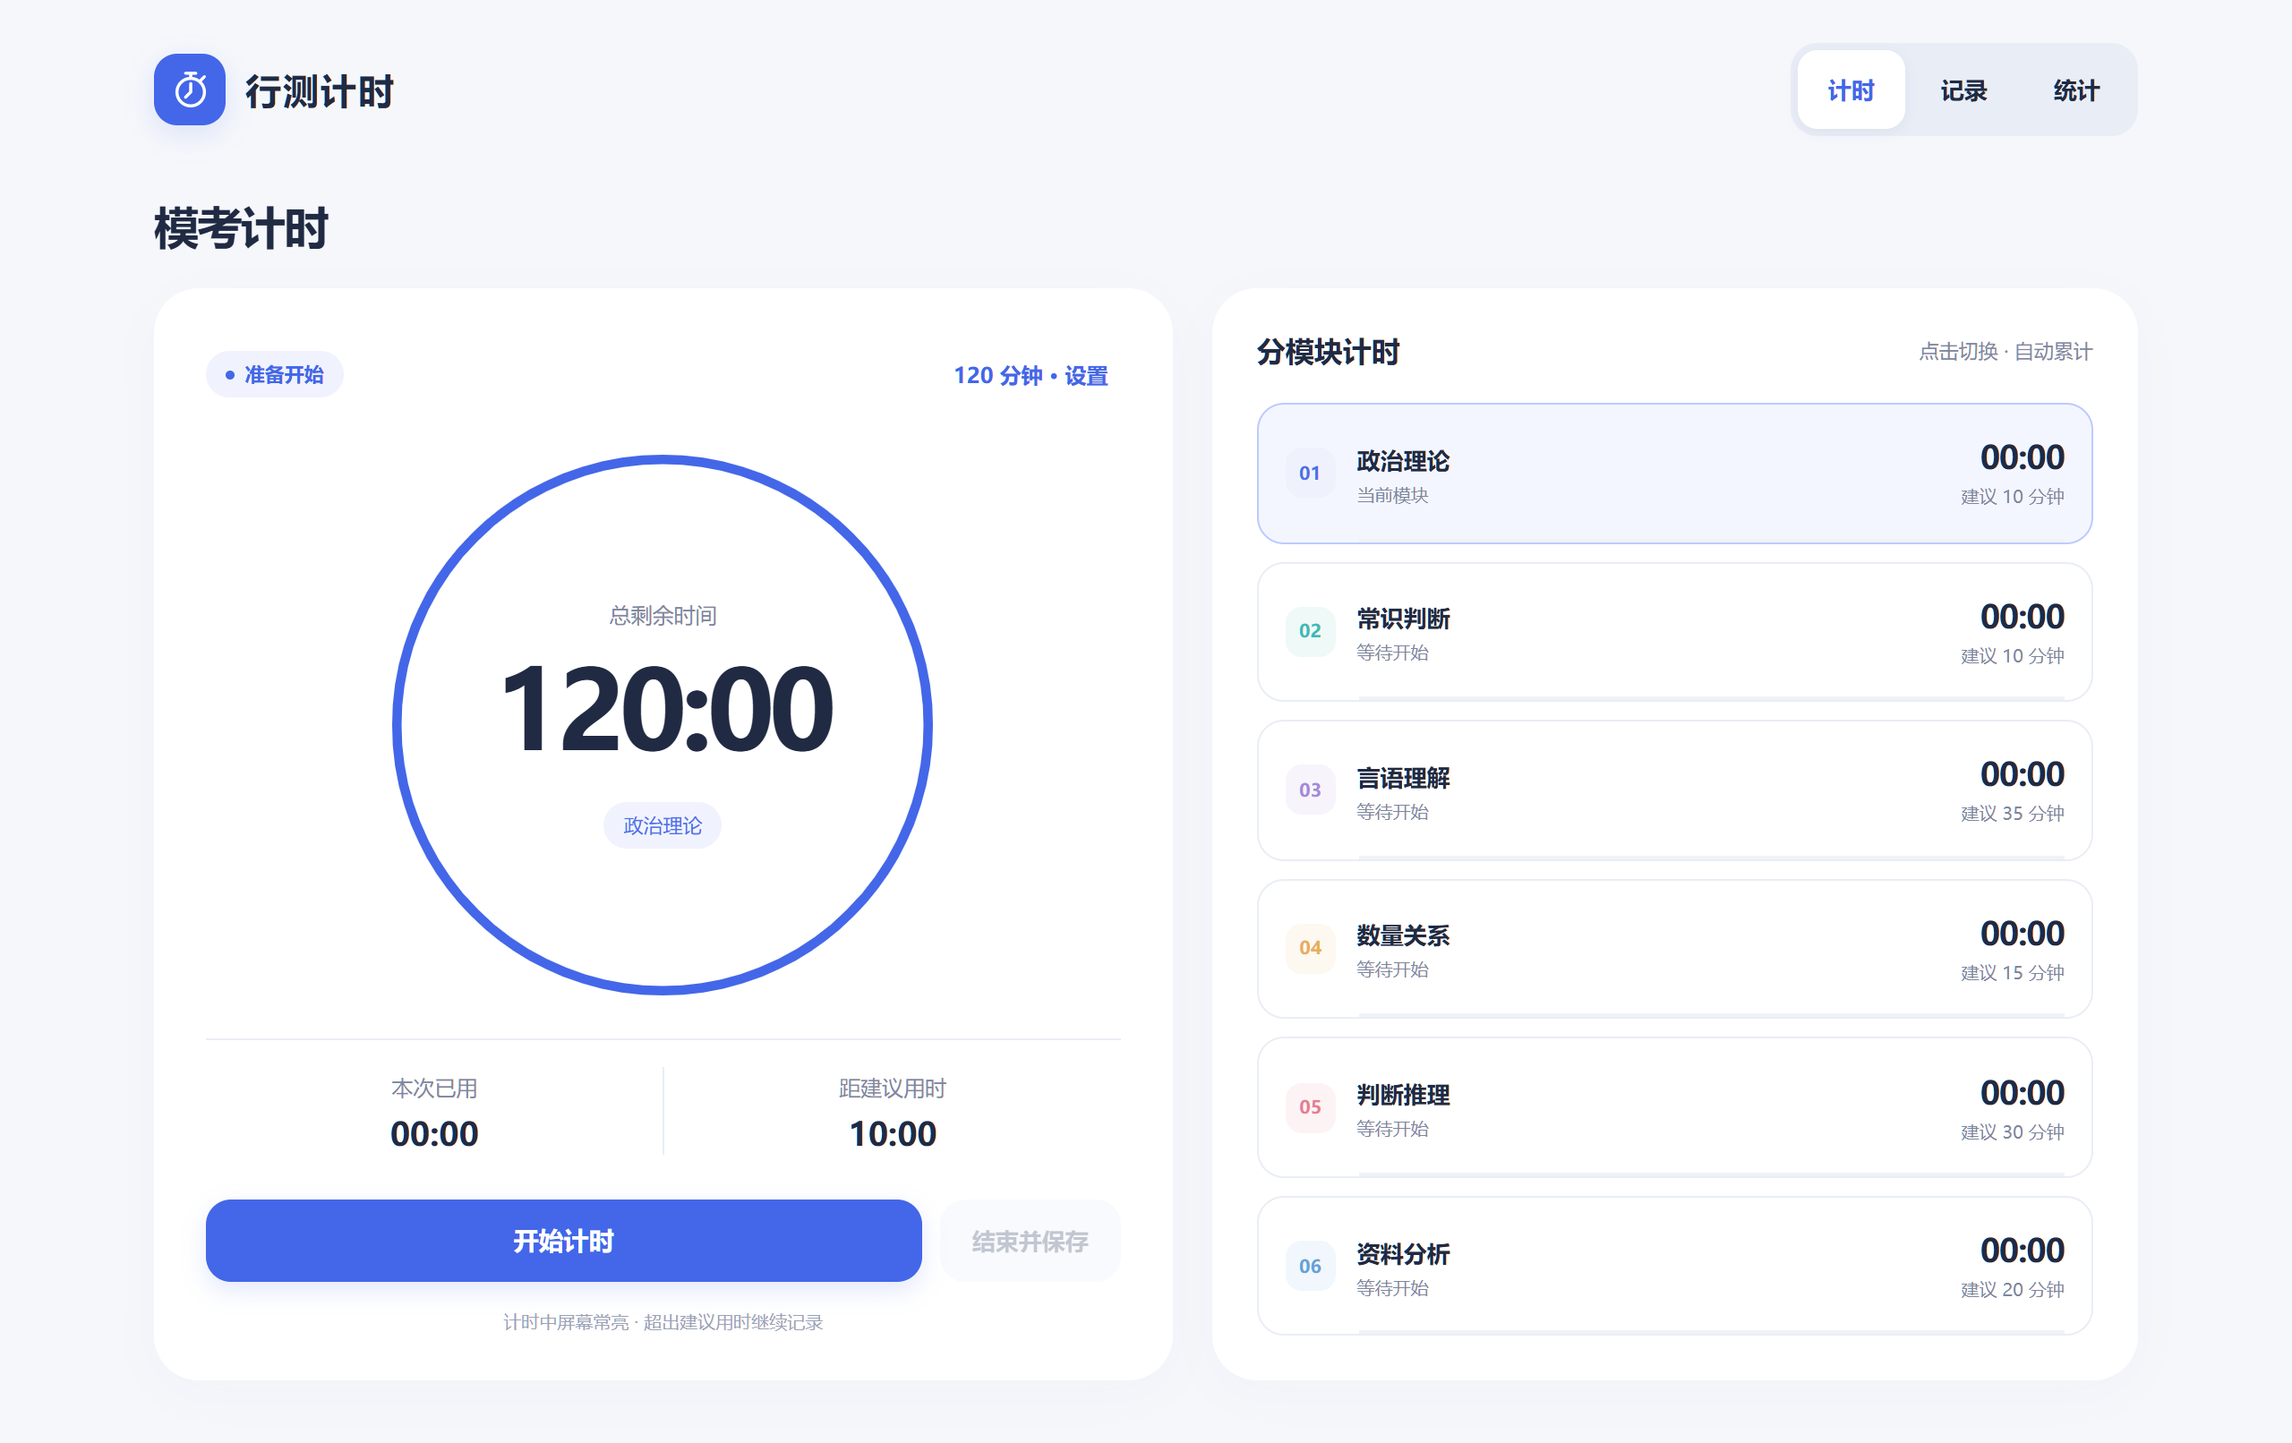
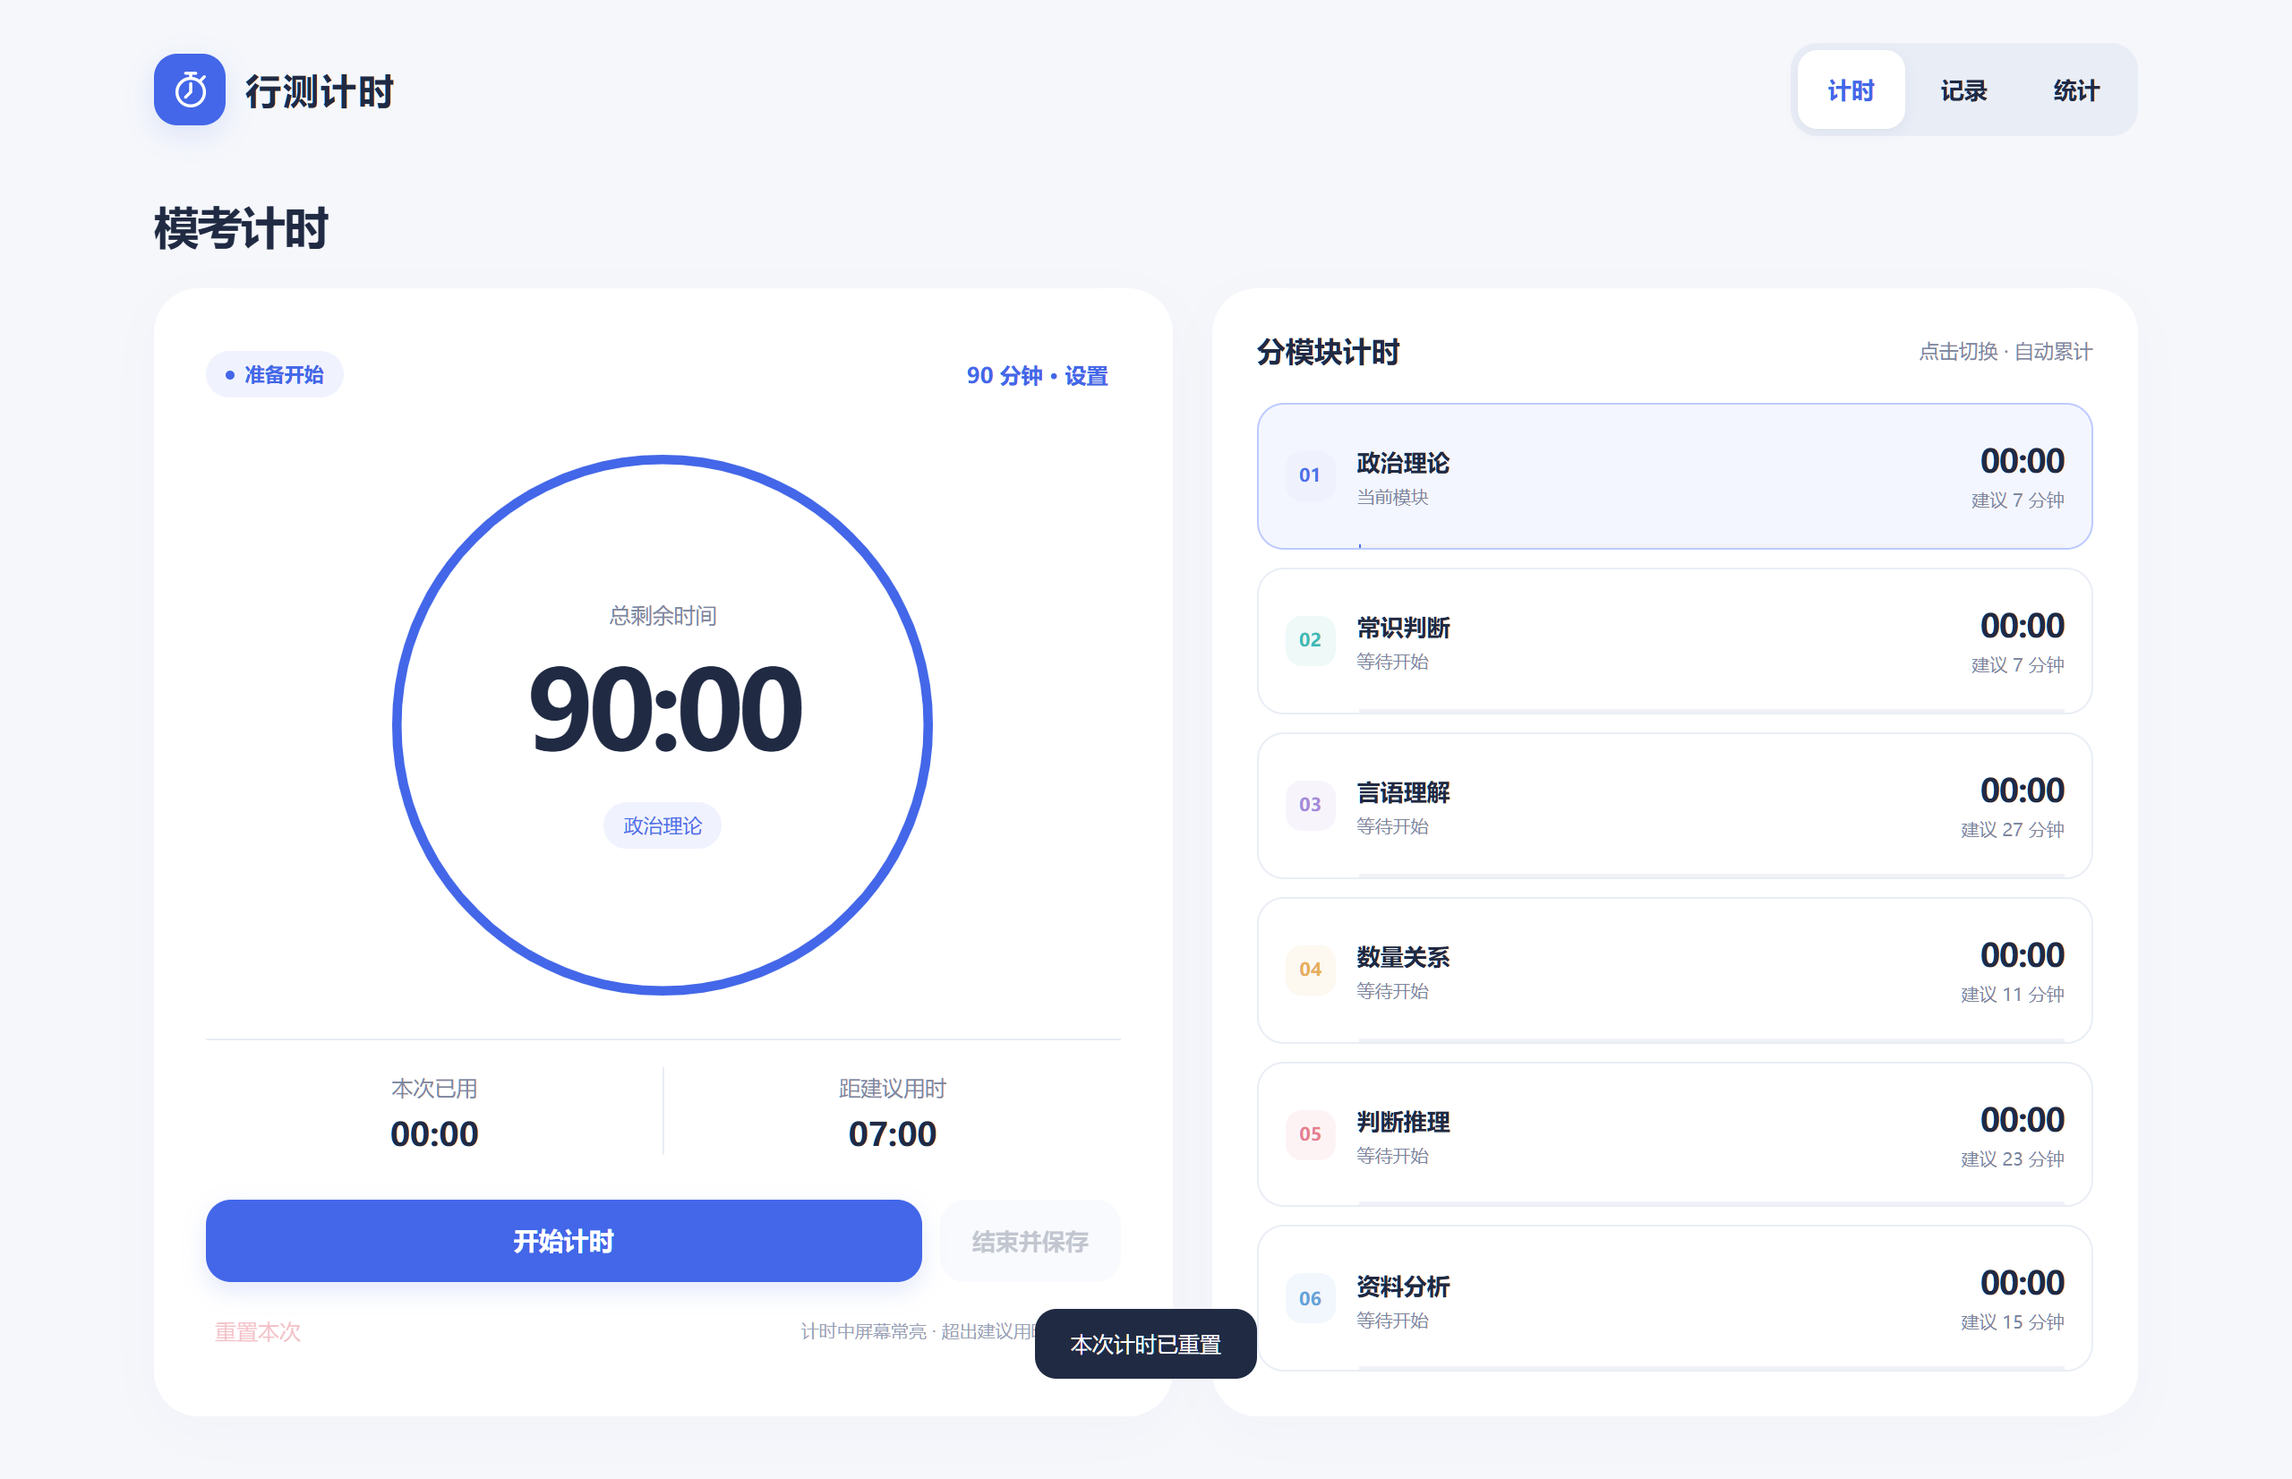
Add confirmed current-session reset while preserving history and settings

diff --git a/app/src/main/assets/index.html b/app/src/main/assets/index.html
@@ -6,14 +6,14 @@
 @media(max-width:699px){header{padding:19px 18px 15px}.brand b{font-size:18px}.brand small{font-size:9px}.mark{width:35px;height:35px;border-radius:11px}.nav button{padding:6px 11px;font-size:12px}.nav svg{display:none}main{padding:2px 17px 26px}.page-heading{margin:8px 0 15px}.page-heading h1{font-size:22px}.layout{grid-template-columns:1fr;gap:15px}.timer-card{padding:19px 20px 16px}.dial{width:245px;margin:9px 0 8px}.time{font-size:55px}.timer-bottom{padding:12px 0}.timer-bottom strong{font-size:16px}.hint{margin-top:11px}.modules-card{padding:19px 16px}.section-head{margin-bottom:14px}.module-list{grid-template-columns:repeat(2,minmax(0,1fr));gap:9px}.module{grid-template-columns:1fr auto;padding:12px 11px 11px;gap:4px;min-height:101px}.module .number{display:none}.module b{grid-column:1/-1;font-size:12px}.module small{font-size:9px;margin-top:4px}.module .value{grid-column:1/-1;text-align:left;font-size:21px;margin-top:3px}.module .value small{display:inline;margin-left:7px;font-size:9px}.module .bar{left:11px;right:11px}.chart-layout{grid-template-columns:1fr;gap:15px;padding:25px}.pie-wrap{max-width:230px}.legend-row{padding:12px 0}.stats-summary{gap:10px}.stat{padding:18px}.stat strong{font-size:25px}.detail-meta{gap:22px;padding:20px}.detail-meta strong{font-size:18px}.record{padding:18px}.record .record-time{font-size:21px}.record-right{gap:8px}}
 @media(max-width:350px){header{padding-left:13px;padding-right:13px}.brand small{display:none}.nav button{padding:6px 9px}.brand b{font-size:16px}main{padding-left:12px;padding-right:12px}.time{font-size:50px}.module .value small{display:block;margin-left:0}}
 @media(prefers-reduced-motion:reduce){*{transition:none!important}}
-@media(max-width:699px){header{padding-top:14px;padding-bottom:14px}.brand small{display:none}#timer>.page-heading{display:none}.timer-card{padding:16px 20px 14px}.timer-top .text-button{min-height:32px}.dial{width:195px;height:195px;margin:8px 0}.time{font-size:47px;letter-spacing:-2px}.dial-center .badge{margin-top:8px}.timer-label{margin-bottom:5px}.module{min-height:76px;padding:9px 11px 8px;gap:1px}.module b{font-size:12px}.module .value{font-size:19px;margin-top:1px}.module small{font-size:9px;margin-top:2px}.modules-card{padding:16px}.section-head{margin-bottom:10px}.module-list{gap:8px}.hint{margin-top:9px}}.eyebrow{display:none}.brand small:empty{display:none}.record-entry{display:grid;grid-template-columns:minmax(0,1fr)44px;align-items:center;background:white;border-radius:18px;padding-right:10px}.record{min-width:0}.record>div:first-child{min-width:0}.record h3{overflow:hidden;text-overflow:ellipsis;white-space:nowrap}.record-right{flex-shrink:0;margin-left:10px}.record-delete{color:var(--red);font-size:12px;min-height:48px;border-radius:10px}.record-delete:active{background:#fff0f3}@media(max-width:350px){.record{padding:15px 12px}.record .record-time{font-size:18px}.record p{font-size:10px}}</style></head><body>
+@media(max-width:699px){header{padding-top:14px;padding-bottom:14px}.brand small{display:none}#timer>.page-heading{display:none}.timer-card{padding:16px 20px 14px}.timer-top .text-button{min-height:32px}.dial{width:195px;height:195px;margin:8px 0}.time{font-size:47px;letter-spacing:-2px}.dial-center .badge{margin-top:8px}.timer-label{margin-bottom:5px}.module{min-height:76px;padding:9px 11px 8px;gap:1px}.module b{font-size:12px}.module .value{font-size:19px;margin-top:1px}.module small{font-size:9px;margin-top:2px}.modules-card{padding:16px}.section-head{margin-bottom:10px}.module-list{gap:8px}.hint{margin-top:9px}}.eyebrow{display:none}.brand small:empty{display:none}.record-entry{display:grid;grid-template-columns:minmax(0,1fr)44px;align-items:center;background:white;border-radius:18px;padding-right:10px}.record{min-width:0}.record>div:first-child{min-width:0}.record h3{overflow:hidden;text-overflow:ellipsis;white-space:nowrap}.record-right{flex-shrink:0;margin-left:10px}.record-delete{color:var(--red);font-size:12px;min-height:48px;border-radius:10px}.record-delete:active{background:#fff0f3}@media(max-width:350px){.record{padding:15px 12px}.record .record-time{font-size:18px}.record p{font-size:10px}}.timer-footer{display:flex;align-items:center;justify-content:space-between;width:100%;gap:10px;margin-top:5px}.timer-footer .hint{margin:0;text-align:right}.timer-footer .danger{flex-shrink:0;padding:0 5px;min-height:44px}</style></head><body>
 <header><div class="brand"><div class="mark" id="brand-icon"></div><div><b>行测计时</b><small></small></div></div><nav class="nav" aria-label="主导航"><button data-page="timer" class="active">计时</button><button data-page="history">记录</button><button data-page="stats">统计</button></nav></header>
 <main>
 <section id="timer" class="page active"><div class="page-heading"><div><div class="eyebrow">FOCUS TIMER</div><h1>模考计时</h1></div></div>
 <div class="layout"><div class="card timer-card"><div class="timer-top"><span class="badge" id="status"><i class="dot"></i><span>准备开始</span></span><button class="text-button" id="settings">120 分钟 · 设置</button></div>
 <div class="dial"><svg viewBox="0 0 300 300" aria-hidden="true"><circle class="track" cx="150" cy="150" r="140"/><circle class="progress" id="progress" cx="150" cy="150" r="140" stroke-dasharray="879.646" stroke-dashoffset="0"/></svg><div class="dial-center"><span class="timer-label" id="remaining-label">总剩余时间</span><div class="time" id="remaining">120:00</div><span class="badge" id="current-module">政治理论</span></div></div>
 <div class="timer-bottom"><div><span class="sub">本次已用</span><strong id="elapsed">00:00</strong></div><div><span class="sub" id="module-label">距建议用时</span><strong id="module-remaining">10:00</strong></div></div>
-<div class="controls"><button id="toggle" class="primary">开始计时</button><button id="finish" class="secondary" disabled>结束并保存</button></div><div class="hint" id="screen-hint">计时中屏幕常亮 · 超出建议用时继续记录</div></div>
+<div class="controls"><button id="toggle" class="primary">开始计时</button><button id="finish" class="secondary" disabled>结束并保存</button></div><div class="timer-footer"><button id="reset" class="danger" disabled>重置本次</button><div class="hint" id="screen-hint">计时中屏幕常亮 · 超出建议用时继续记录</div></div></div>
 <div class="card modules-card"><div class="section-head"><h2>分模块计时</h2><span>点击切换 · 自动累计</span></div><div class="module-list" id="modules"></div></div></div></section>
 <section id="history" class="page"><div class="page-heading"><div><div class="eyebrow">YOUR SESSIONS</div><h1>做题记录</h1></div><span class="sub" id="history-count"></span></div><div id="records"></div></section>
 <section id="stats" class="page"><div class="page-heading"><div><div class="eyebrow">TIME INSIGHTS</div><h1>用时统计</h1></div></div><div id="stats-content"></div></section>
@@ -62,10 +62,11 @@ function refresh(){
  $('current-module').textContent=names[s.active];$('current-module').style.color=colors[s.active];
  $('progress').style.strokeDashoffset=879.646*Math.min(1,Math.max(0,spent/sum(s.budgets)));$('progress').style.stroke=remaining<0?'var(--red)':'var(--blue)';
  $('status').classList.toggle('running',s.running);$('status').lastElementChild.textContent=s.running?'专注计时中':s.startedAt?'已暂停':'准备开始';
- $('toggle').textContent=s.running?'暂停计时':s.startedAt?'继续计时':'开始计时';$('finish').disabled=!s.startedAt;$('settings').textContent=`${sum(s.budgets)/60000} 分钟 · 设置`;$('settings').disabled=!!s.startedAt;
+ $('toggle').textContent=s.running?'暂停计时':s.startedAt?'继续计时':'开始计时';$('finish').disabled=!s.startedAt;$('reset').disabled=!s.startedAt;$('settings').textContent=`${sum(s.budgets)/60000} 分钟 · 设置`;$('settings').disabled=!!s.startedAt;
  names.forEach((n,i)=>{const selected=s.active===i;const el=document.querySelector(`[data-module="${i}"]`);el.classList.toggle('selected',selected);el.setAttribute('aria-pressed',String(selected));$('time-'+i).textContent=fmt(s.spent[i]);$('budget-'+i).textContent=`建议 ${s.budgets[i]/60000} 分钟`;$('bar-'+i).style.width=Math.min(100,s.spent[i]/s.budgets[i]*100)+'%';$('module-state-'+i).textContent=selected?(s.running?'正在计时':s.startedAt?'当前模块 · 已暂停':'当前模块'):s.spent[i]>0?'已记录 · 可继续':'等待开始';$('time-'+i).classList.toggle('overtime',s.spent[i]>s.budgets[i]);});
 }
 $('toggle').onclick=()=>action(read().running?'pause':'start');
+$('reset').onclick=()=>{if(!read().startedAt)return;confirmDialog('重置本次计时？','清空本次六个模块的用时并停止计时。时间设置和历史记录会保留，本次用时不会保存。','重置',()=>{if(action('discard'))toast('本次计时已重置')})};
 let lastFocus=null;
 function dialog(html){lastFocus=document.activeElement;$('dialog').innerHTML=html;$('overlay').classList.add('open');setTimeout(()=>{const el=$('dialog').querySelector('input,button');if(el)el.focus()},30)}
 function closeDialog(){$('overlay').classList.remove('open');if(lastFocus){lastFocus.focus();lastFocus=null}}

diff --git a/app/src/test/java/cn/xingce/timer/ResetSessionTest.java b/app/src/test/java/cn/xingce/timer/ResetSessionTest.java
@@ -1,0 +1,47 @@
+package cn.xingce.timer;
+
+import android.view.WindowManager;
+import org.junit.Test;
+import org.junit.runner.RunWith;
+import org.robolectric.Robolectric;
+import org.robolectric.RobolectricTestRunner;
+import org.robolectric.annotation.Config;
+import org.robolectric.util.ReflectionHelpers;
+import static org.junit.Assert.*;
+
+@RunWith(RobolectricTestRunner.class)
+@Config(sdk = 35)
+public class ResetSessionTest {
+    @Test public void resetClearsCurrentSessionButKeepsSavedHistoryAndSettings() {
+        try (org.robolectric.android.controller.ActivityController<MainActivity> controller =
+                     Robolectric.buildActivity(MainActivity.class).setup()) {
+            MainActivity activity = controller.get();
+            MainActivity.Bridge bridge = ReflectionHelpers.getField(activity, "bridge");
+            assertEquals("", bridge.action("start", ""));
+            bridge.engine.spent[0] = 120000;
+            assertEquals("", bridge.action("finish", "已保存的练习"));
+            String history = bridge.history();
+            assertEquals("", bridge.action("configure", "[120000,180000,600000,240000,360000,300000]"));
+            long[] settings = bridge.engine.budgets.clone();
+            assertEquals("", bridge.action("start", ""));
+            bridge.engine.spent[0] = 660000;
+            assertEquals("", bridge.action("select", "3"));
+            bridge.engine.spent[3] = 180000;
+            assertNotEquals(0, activity.getWindow().getAttributes().flags & WindowManager.LayoutParams.FLAG_KEEP_SCREEN_ON);
+            assertEquals("", bridge.action("discard", ""));
+            assertEquals(0, bridge.engine.elapsed());
+            assertEquals(0, bridge.engine.startedAt);
+            assertEquals(0, bridge.engine.active);
+            assertFalse(bridge.engine.running);
+            assertArrayEquals(settings, bridge.engine.budgets);
+            assertEquals(history, bridge.history());
+            assertEquals(0, activity.getWindow().getAttributes().flags & WindowManager.LayoutParams.FLAG_KEEP_SCREEN_ON);
+            MainActivity.Bridge restored = activity.new Bridge();
+            assertEquals(0, restored.engine.elapsed());
+            assertEquals(0, restored.engine.startedAt);
+            assertFalse(restored.engine.running);
+            assertArrayEquals(settings, restored.engine.budgets);
+            assertEquals(history, restored.history());
+        }
+    }
+}

diff --git a/docs/使用说明.md b/docs/使用说明.md
@@ -1,10 +1,10 @@
-# 行测计时 1.0.2
+# 行测计时 1.0.3
 
 一个离线的安卓行测计时工具。支持 Android 8.0 及以上，适配手机、平板和横竖屏。无需账号、无需联网，无广告。
 
 ## 安装
 
-将「行测计时-v1.0.2.apk」发送到安卓设备，在文件管理器中打开，按系统提示允许该来源安装，然后安装。
+将「行测计时-v1.0.3.apk」发送到安卓设备，在文件管理器中打开，按系统提示允许该来源安装，然后安装。
 
 ## 使用
 
@@ -13,6 +13,8 @@
 3. 点击其他模块立即切换。每个模块独立累计用时，切回来会继续累计；总计时不因切换中断。中央显示总剩余，下方显示距离建议用时的剩余时间，超时后显示已超出的时间，模块卡片显示已用时间。
 4. 点击「暂停计时」/「继续计时」。暂停时间不计入用时；计时运行且应用显示在前台时，屏幕保持常亮。
 5. 点击「结束并保存」，应用先暂停，再填写可选名称并保存。记录列表右侧可直接点击「删除」，确认后删除该条记录；也可打开任一次练习，查看各模块用时、占比及扇形图；统计页查看全部记录的平均用时扇形图。
+
+6. 点击计时操作区下方的「重置本次」，确认后停止并清空本次六个模块用时，回到准备开始状态；保留总时长、模块建议时间及已保存的历史记录，不保存本次练习。运行中和暂停时均可重置，取消确认则保持当前状态。
 
 ## 计时与数据规则
 

diff --git a/README.md b/README.md
@@ -10,6 +10,7 @@
 - 政治理论、常识判断、言语理解、数量关系、判断推理、资料分析六模块独立统计。
 - 点击模块切换，切回后继续累计；模块时间仅作建议，超出后显示超时并继续记录。
 - 暂停、继续、到时提示与超时记录。
+- 重置本次计时，确认后各模块归零，保留时间设置和已保存的历史记录。
 - 本地保存历史，列表直接删除并确认；按次查看用时扇形图，查看六模块平均用时扇形图。
 - 计时运行且应用在前台时保持屏幕常亮。
 - 无需账号、无广告、无联网权限。
